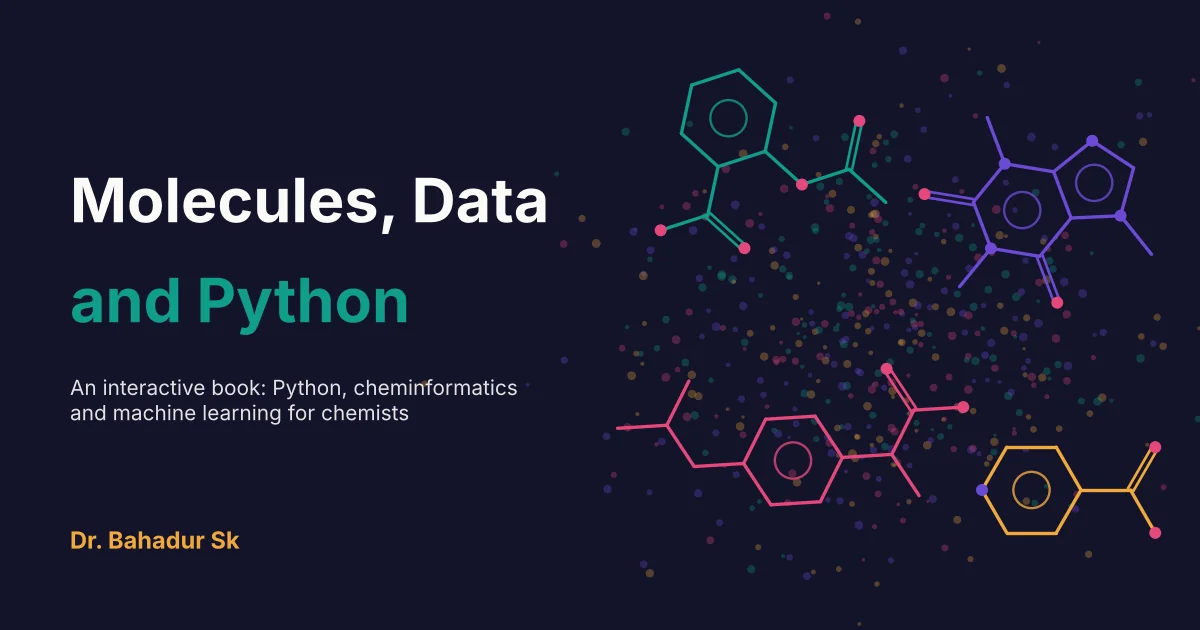
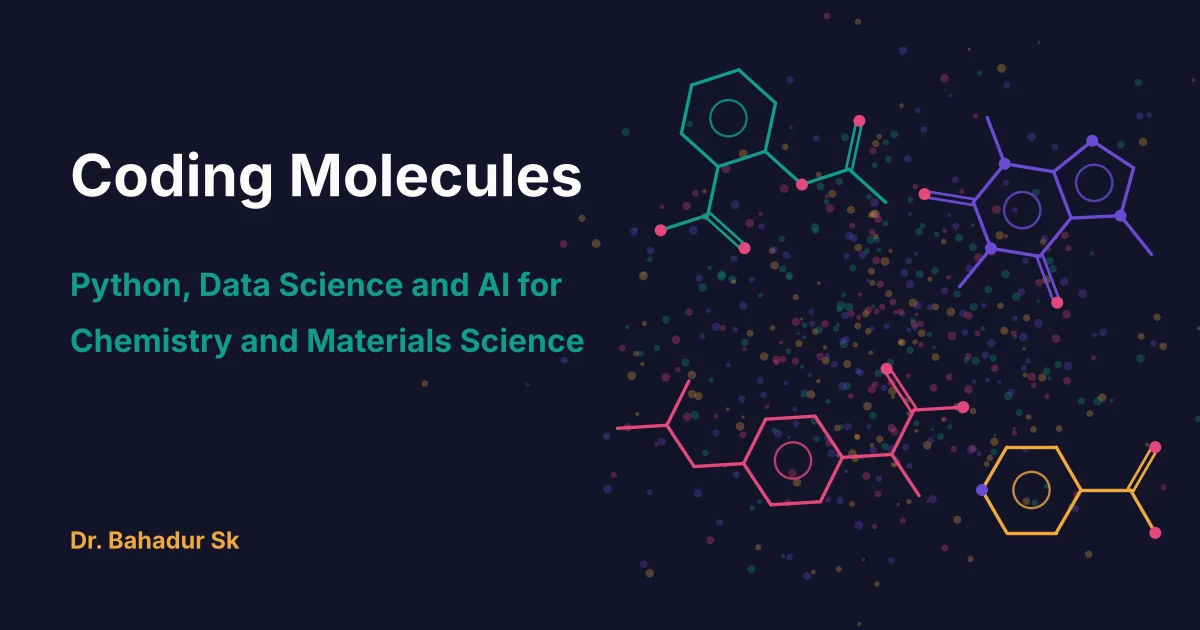
Rename the online book to Coding Molecules and refresh its details
Claude-Session: https://claude.ai/code/session_01MGjACbowYgY8z1epzsmsVX

Changed region(s): [[0.0617, 0.4222, 0.4933, 0.573], [0.0617, 0.2413, 0.4933, 0.3619], [0.0617, 0.6032, 0.4317, 0.6635]]

diff --git a/teaching.html b/teaching.html
@@ -4,7 +4,7 @@
   <meta charset="utf-8">
   <meta name="viewport" content="width=device-width, initial-scale=1">
   <title>Teaching — Dr. Bahadur Sk</title>
-  <meta name="description" content="Courses designed and taught by Dr. Bahadur Sk at KL University, teaching philosophy, the book Molecules, Data and Python and its open online edition.">
+  <meta name="description" content="Courses designed and taught by Dr. Bahadur Sk at KL University, teaching philosophy, the book Molecules, Data and Python, and the open online book Coding Molecules.">
   <link rel="icon" href="assets/img/favicon.png">
   <link rel="preconnect" href="https://fonts.googleapis.com">
   <link rel="preconnect" href="https://fonts.gstatic.com" crossorigin>
@@ -132,20 +132,21 @@
   <section class="highlight-section online-book" id="online-book">
     <div class="section-inner book-grid online-book-grid">
       <figure class="book-cover online-book-card">
-        <a href="https://bahadursk.github.io/molecules-data-python/intro.html" target="_blank" rel="noreferrer"><img src="assets/img/online-book.webp" alt="Molecules, Data and Python open online book" width="1200" height="630" loading="lazy"></a>
+        <a href="https://bahadursk.github.io/molecules-data-python/intro.html" target="_blank" rel="noreferrer"><img src="assets/img/online-book.webp" alt="Coding Molecules: Python, Data Science and AI for Chemistry and Materials Science, open online book by Dr. Bahadur Sk" width="1200" height="630" loading="lazy"></a>
       </figure>
       <div>
         <p class="section-eyebrow">Open online book</p>
-        <h2 class="section-title">Molecules, Data and Python: the interactive Jupyter Book</h2>
-        <p class="course-meta">Dr. Bahadur Sk &middot; Free to read online &middot; Version 1.0 (2026) &middot; Text CC BY 4.0, code MIT &middot; DOI <a href="https://doi.org/10.5281/zenodo.24583664" target="_blank" rel="noreferrer">10.5281/zenodo.24583664</a></p>
-        <p>An open, interactive book that teaches Python through chemistry, from school level to research level, and applies machine learning across chemistry and materials science.</p>
+        <h2 class="section-title">Coding Molecules: Python, Data Science and AI for Chemistry and Materials Science</h2>
+        <p class="course-meta">Dr. Bahadur Sk &middot; Free interactive Jupyter Book &middot; 51 chapters in seven parts &middot; Version 1.0 (2026) &middot; Text CC BY 4.0, code MIT &middot; DOI <a href="https://doi.org/10.5281/zenodo.24583664" target="_blank" rel="noreferrer">10.5281/zenodo.24583664</a></p>
+        <p>An open, interactive book that teaches Python through chemistry, from school level to research level, and applies machine learning and AI across chemistry and materials science. Every chapter is a Jupyter notebook that opens in Google Colab or Binder with one click, so readers can run and edit the code with nothing to install.</p>
         <ul class="serif-list">
           <li><strong>Part I</strong> Python fundamentals, every idea taught through a chemical problem</li>
-          <li><strong>Part II</strong> NumPy, pandas, Matplotlib, Seaborn, Plotly, SciPy, SymPy and pint</li>
-          <li><strong>Part III</strong> Cheminformatics with RDKit and 3D visualisation with py3Dmol</li>
-          <li><strong>Part IV</strong> Kinetics, thermodynamics, spectroscopy, quantum chemistry, MD and crystals</li>
+          <li><strong>Part II</strong> The scientific Python stack: NumPy, pandas, Matplotlib, Seaborn, Plotly, SciPy, SymPy and pint</li>
+          <li><strong>Part III</strong> Cheminformatics and molecular visualisation with RDKit and py3Dmol</li>
+          <li><strong>Part IV</strong> Chemistry applications: kinetics, thermodynamics, spectroscopy, quantum chemistry, MD and crystals</li>
           <li><strong>Part V</strong> Machine-learning foundations for chemists</li>
           <li><strong>Part VI</strong> Machine learning across medicinal, organic, analytical and physical chemistry, catalysis, materials, energy, polymers, biochemistry, generative design and LLMs</li>
+          <li><strong>Part VII</strong> Research frontiers in AI-assisted chemistry: discovery, chemical sensing, imaging, digital twins and trustworthy AI</li>
         </ul>
         <div class="hero-actions">
           <a class="btn btn-primary" href="https://bahadursk.github.io/molecules-data-python/intro.html" target="_blank" rel="noreferrer">Read the book online</a>

diff --git a/about.html b/about.html
@@ -55,7 +55,7 @@
       <div class="prose-main">
         <p class="lede">My scientific curiosity began with a deceptively simple question: <em>why do different materials emit, fade, or store light in different ways?</em> That question has led my research from synthetic chemistry and spectroscopy into computation-guided design for modern optoelectronics.</p>
         <p>At AURA Lab, I use DFT, TD-DFT and spin&ndash;orbit coupling calculations to predict how organic materials absorb, store and emit energy, computing the rate constants that decide whether an excited molecule fluoresces, phosphoresces or loses its energy as heat, and turning them into design rules. This work has led to strategies for selective triplet energy transfer, faster radiative decay and long-wavelength afterglow in purely organic materials. We are now building graph neural network models, trained on quantum-chemical data and interpreted with SHAP, to screen new organic optoelectronic materials at high throughput.</p>
-        <p>My teaching follows the same line. Since joining KL University I have designed three new courses that take chemistry students from computational chemistry through data science to machine learning for molecules, and I have written <a href="teaching.html#book"><em>Molecules, Data and Python</em></a>, a first course in chemistry coding for school students, together with a free <a href="https://bahadursk.github.io/molecules-data-python/intro.html" target="_blank" rel="noreferrer">interactive online edition</a> that carries the same approach through to machine learning in chemistry and materials science.</p>
+        <p>My teaching follows the same line. Since joining KL University I have designed three new courses that take chemistry students from computational chemistry through data science to machine learning for molecules, and I have written <a href="teaching.html#book"><em>Molecules, Data and Python</em></a>, a first course in chemistry coding for school students, and the free, interactive online book <a href="https://bahadursk.github.io/molecules-data-python/intro.html" target="_blank" rel="noreferrer"><em>Coding Molecules: Python, Data Science and AI for Chemistry and Materials Science</em></a>, which carries the same approach through to machine learning and AI in chemistry and materials science.</p>
         <p>Before joining KL University in August 2025, I was a Senior Research Associate at the DST Technical Research Centre, IACS Kolkata, a UEC Postdoctoral Fellow with Prof. Shuzo Hirata at the University of Electro-Communications in Tokyo, and a C.&nbsp;V.&nbsp;Raman Postdoctoral Fellow with Dr. P. Rajamalli at the Materials Research Centre, IISc Bengaluru. I completed my PhD in Chemistry (physical, materials and computational chemistry) at IISER Bhopal with Prof. Abhijit Patra, including a research internship at ENS Paris-Saclay, France.</p>
       </div>
     </div>

diff --git a/publications.html b/publications.html
@@ -260,7 +260,7 @@
   <div class="section-inner info-grid info-grid-2">
     <article class="info-card">
       <h3>Book</h3>
-      <ul class="serif-list"><li>Sk, B. <a href="teaching.html#book"><em>Molecules, Data and Python: Your First Steps in Chemistry Coding</em></a>. Notion Press, paperback, 146 pages. ISBN 979-8909113266.</li><li>Sk, B. <a href="https://bahadursk.github.io/molecules-data-python/intro.html" target="_blank" rel="noreferrer"><em>Molecules, Data and Python</em></a>, open interactive Jupyter Book, version 1.0. Zenodo, 2026. <a href="https://doi.org/10.5281/zenodo.24583664" target="_blank" rel="noreferrer">doi:10.5281/zenodo.24583664</a>.</li></ul>
+      <ul class="serif-list"><li>Sk, B. <a href="teaching.html#book"><em>Molecules, Data and Python: Your First Steps in Chemistry Coding</em></a>. Notion Press, paperback, 146 pages. ISBN 979-8909113266.</li><li>Sk, B. <a href="https://bahadursk.github.io/molecules-data-python/intro.html" target="_blank" rel="noreferrer"><em>Coding Molecules: Python, Data Science and AI for Chemistry and Materials Science</em></a>, open interactive Jupyter Book, version 1.0. Zenodo, 2026. <a href="https://doi.org/10.5281/zenodo.24583664" target="_blank" rel="noreferrer">doi:10.5281/zenodo.24583664</a>.</li></ul>
       <h3>Patents</h3>
       <ul class="serif-list"><li>Patra, A.; Sk, B.; Sarkar, M.; Kundu, S. Dibenzopyridoquinoxaline Based Derivatives. Indian Patent No. 558358 (granted).</li><li>Sk, B.; Hirata, S. Molecules and molecular materials enabling highly efficient photochemical cyclic reactions. Patent application filed in Japan (UEC Application ID 24-034).</li></ul>
     </article>

diff --git a/index.html b/index.html
@@ -305,7 +305,7 @@
       <ul class="news-list">
         <li>
           <span class="news-date">Nov 2026</span>
-          <p>Released <a href="https://bahadursk.github.io/molecules-data-python/intro.html" target="_blank" rel="noreferrer"><em>Molecules, Data and Python</em></a> as a free, interactive online Jupyter Book, from Python basics to machine learning in chemistry.</p>
+          <p>Released <a href="https://bahadursk.github.io/molecules-data-python/intro.html" target="_blank" rel="noreferrer"><em>Coding Molecules: Python, Data Science and AI for Chemistry and Materials Science</em></a>, a free, interactive online Jupyter Book, from Python basics to AI in chemistry.</p>
         </li>
         <li>
           <span class="news-date">Nov 2026</span>
@@ -382,7 +382,7 @@
         <div class="hero-actions">
           <a class="btn btn-primary" href="https://www.amazon.in/dp/B0HS8R4JBP" target="_blank" rel="noreferrer">Buy on Amazon.in</a>
           <a class="btn btn-line" href="https://www.flipkart.com/molecules-data-python/p/itme3f54b5a19e37?pid=9798909113266" target="_blank" rel="noreferrer">Buy on Flipkart</a>
-          <a class="btn btn-line" href="https://bahadursk.github.io/molecules-data-python/intro.html" target="_blank" rel="noreferrer">Read the online book</a>
+          <a class="btn btn-line" href="https://bahadursk.github.io/molecules-data-python/intro.html" target="_blank" rel="noreferrer">Read <em>Coding Molecules</em> online</a>
           <a class="btn btn-line" href="teaching.html#book">About the book</a>
         </div>
       </div>

diff --git a/news.html b/news.html
@@ -42,8 +42,8 @@
   <div class="section-inner news-archive-grid">
     <article class="news-card">
       <p class="news-date">Nov 2026</p>
-      <h3>Open online book: <em>Molecules, Data and Python</em></h3>
-      <p>The <a href="https://bahadursk.github.io/molecules-data-python/intro.html" target="_blank" rel="noreferrer">interactive Jupyter Book</a> version 1.0 is now free to read online. It teaches Python through chemistry from school level to research level and applies machine learning across chemistry and materials science. Text CC BY 4.0, archived on Zenodo (<a href="https://doi.org/10.5281/zenodo.24583664" target="_blank" rel="noreferrer">DOI 10.5281/zenodo.24583664</a>).</p>
+      <h3>Open online book: <em>Coding Molecules</em></h3>
+      <p><a href="https://bahadursk.github.io/molecules-data-python/intro.html" target="_blank" rel="noreferrer"><em>Coding Molecules: Python, Data Science and AI for Chemistry and Materials Science</em></a>, an interactive Jupyter Book, version 1.0, is now free to read online. Its 51 chapters teach Python through chemistry from school level to research level and apply machine learning and AI across chemistry and materials science, and every chapter runs in Colab or Binder with one click. Text CC BY 4.0, archived on Zenodo (<a href="https://doi.org/10.5281/zenodo.24583664" target="_blank" rel="noreferrer">DOI 10.5281/zenodo.24583664</a>).</p>
     </article><article class="news-card">
       <p class="news-date">Nov 2026</p>
       <h3>Book: <em>Molecules, Data and Python</em></h3>
